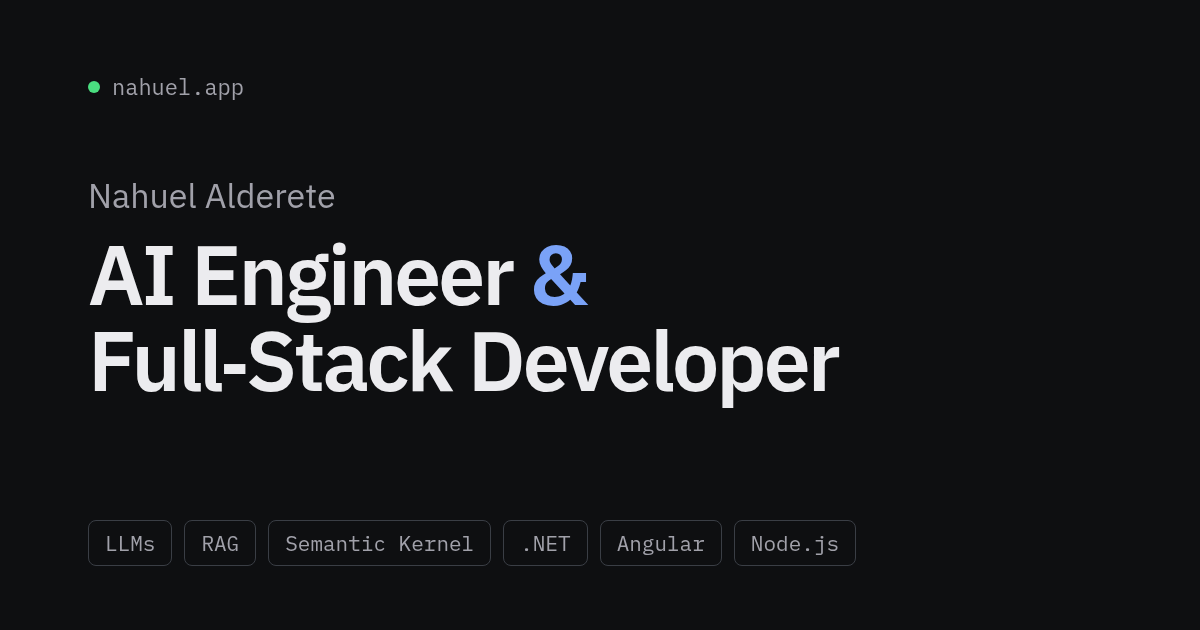
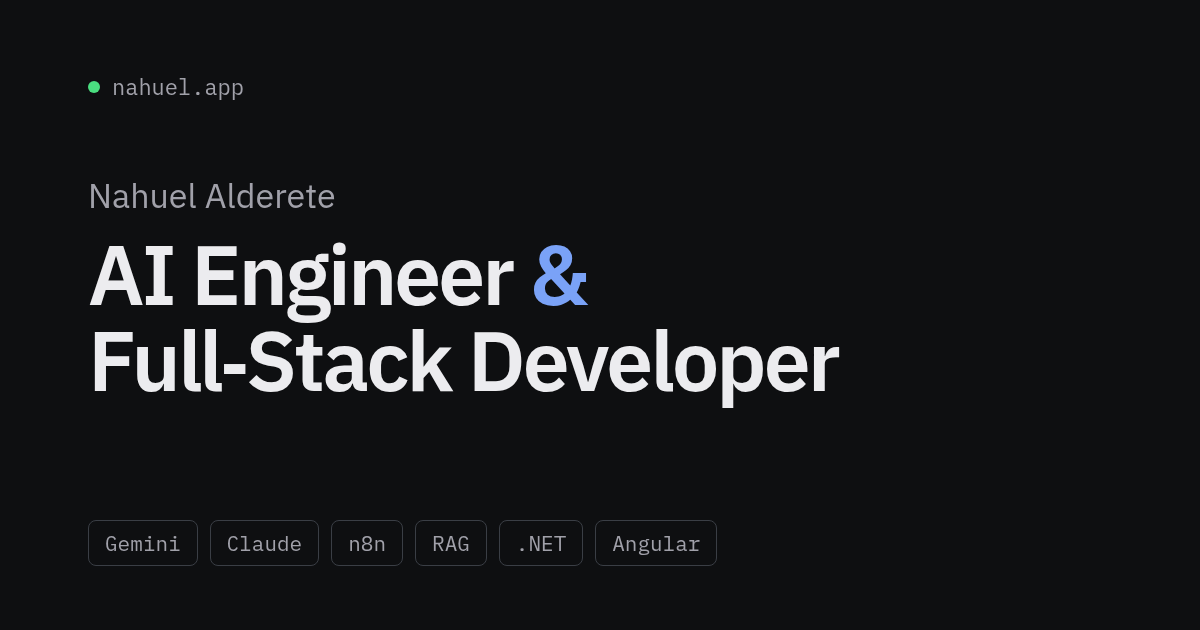
feat: Enhance AI capabilities and automation in the project
- Updated chatbot knowledge base to include Gemini, Claude, n8n, and Spec-Driven Development.
- Added practical applications of AI technologies in the documentation.
- Modified the OG image to reflect new technologies.
- Removed outdated background image.
- Updated LLMs description to specify Gemini and Claude.
- Added new SVG icons for Claude and n8n.
- Integrated Gemini, Claude, and n8n into the tech stack in various components.
- Enhanced the About Me page with a new section on AI and automation practices.
- Improved styling for the AI definitions list.
- Updated localization files to include new AI-related terms and descriptions.
- Adjusted styles for better layout and appearance.

Changed region(s): [[0.0925, 0.8444, 0.5858, 0.8746], [0.6167, 0.8444, 0.7092, 0.8746]]

diff --git a/src/app/pages/about-me/about-me.html b/src/app/pages/about-me/about-me.html
@@ -12,6 +12,28 @@
           <p i18n="@@aboutP3">Esa capa de IA se apoya en una década de desarrollo: frontends en Angular e Ionic / React Native, APIs en .NET y Node.js, y sistemas críticos en banca y salud. Busco que la IA resuelva un problema concreto del negocio, no que quede en una demo.</p>
         </div>
 
+        <section class="ai-practice" aria-labelledby="ai-title">
+          <h3 id="ai-title" class="subhead" i18n="@@aiTitle">IA y automatización en la práctica</h3>
+          <dl class="ai-list">
+            <div class="ai-item">
+              <dt i18n="@@aiGeminiTitle">Integración de LLMs con Gemini</dt>
+              <dd i18n="@@aiGeminiText">Integro LLMs como Gemini en productos reales: asistentes con RAG y tool calling, y flujos que clasifican y analizan información con IA.</dd>
+            </div>
+            <div class="ai-item">
+              <dt i18n="@@aiClaudeTitle">Desarrollo con Claude</dt>
+              <dd i18n="@@aiClaudeText">Trabajo con Claude y Claude Code como asistente de desarrollo, con reglas y contexto por repositorio (CLAUDE.md) y planes de trabajo por tarea.</dd>
+            </div>
+            <div class="ai-item">
+              <dt i18n="@@aiN8nTitle">Automatización con n8n</dt>
+              <dd i18n="@@aiN8nText">Automatizo procesos de negocio con n8n, conectando servicios, datos y modelos de IA para eliminar tareas manuales repetitivas.</dd>
+            </div>
+            <div class="ai-item">
+              <dt i18n="@@aiSddTitle">Spec-Driven Development (OpenSpec)</dt>
+              <dd i18n="@@aiSddText">Redacto y refino especificaciones antes de implementar, para mantener alineados requerimientos, código y revisiones.</dd>
+            </div>
+          </dl>
+        </section>
+
         <section class="tech-stack" aria-labelledby="tech-title">
           <h3 id="tech-title" class="subhead" i18n="@@aboutStackTitle">Stack principal</h3>
           <ul class="tech-icons">

diff --git a/src/app/pages/about-me/about-me.scss b/src/app/pages/about-me/about-me.scss
@@ -50,6 +50,36 @@
   }
 }
 
+/* ── IA y automatización: lista de definiciones en dos columnas ────────────── */
+.ai-list {
+  display: grid;
+  grid-template-columns: repeat(2, minmax(0, 1fr));
+  gap: 0 2rem;
+  margin: 0;
+
+  @media (max-width: 700px) {
+    grid-template-columns: 1fr;
+  }
+
+  .ai-item {
+    padding: 1.125rem 0;
+    border-top: 1px solid var(--color-border);
+  }
+
+  dt {
+    font-weight: 600;
+    color: var(--color-text);
+  }
+
+  dd {
+    margin: 0.375rem 0 0;
+    font-size: 0.9375rem;
+    line-height: 1.6;
+    color: var(--color-text-muted);
+    text-wrap: pretty;
+  }
+}
+
 /* ── Stack: lista simple de logos ──────────────────────────────────────────── */
 .tech-icons {
   @include m.list-reset;

diff --git a/docs/og-image.html b/docs/og-image.html
@@ -66,12 +66,12 @@
   <p class="name">Nahuel Alderete</p>
   <h1>AI Engineer <span class="amp">&amp;</span><br>Full‑Stack Developer</h1>
   <div class="tags">
-    <span class="tag">LLMs</span>
+    <span class="tag">Gemini</span>
+    <span class="tag">Claude</span>
+    <span class="tag">n8n</span>
     <span class="tag">RAG</span>
-    <span class="tag">Semantic Kernel</span>
     <span class="tag">.NET</span>
     <span class="tag">Angular</span>
-    <span class="tag">Node.js</span>
   </div>
 </body>
 </html>

diff --git a/src/app/app.ts b/src/app/app.ts
@@ -152,6 +152,11 @@ export class App implements OnInit, AfterViewInit, OnDestroy {
             'Large Language Models',
             'Retrieval-Augmented Generation',
             'Semantic Kernel',
+            'Google Gemini',
+            'Claude',
+            'n8n',
+            'Spec-Driven Development',
+            'OpenSpec',
             'Conversational AI',
             'Business Process Automation',
             'Angular',

diff --git a/src/styles.scss b/src/styles.scss
@@ -105,6 +105,11 @@ html {
 
   /* Widget de Chatbot Up: por defecto usa 2147483000 y taparía el drawer */
   --cu-z-index: var(--z-chatbot);
+  --cu-content-bg: var(--color-bg);
+  --cu-launcher-bg: var(--mat-sys-primary);
+  --cu-radius-xl: var(--radius-sm);
+  --cu-header-bg: var(--color-surface-2);
+  --cu-panel-height: 75dvh;
 
   /* Layout */
   --header-height: 64px;

diff --git a/src/app/pages/home/home.ts b/src/app/pages/home/home.ts
@@ -11,7 +11,7 @@ import { MatButtonModule } from '@angular/material/button';
 export class Home {
 
   coreSkills = [
-    'LLMs', 'RAG', 'Semantic Kernel', 'Python', '.NET / C#', 'Angular', 'TypeScript', 'Node.js'
+    'LLMs', 'Gemini', 'Claude', 'RAG', 'n8n', 'Semantic Kernel', '.NET / C#', 'Angular', 'TypeScript'
   ];
 
   scrollTo(anchor: string, event?: Event): void {

diff --git a/src/app/pages/about-me/about-me.ts b/src/app/pages/about-me/about-me.ts
@@ -13,6 +13,9 @@ export class AboutMe {
   lang = inject(LOCALE_ID);
 
   technologies = [
+    { name: 'Gemini', file: 'gemini.svg' },
+    { name: 'Claude', file: 'claude.svg' },
+    { name: 'n8n', file: 'n8n.svg' },
     { name: 'Angular', file: 'angular.svg' },
     { name: 'TypeScript', file: 'typescript.svg' },
     { name: 'JavaScript', file: 'javascript.svg' },

diff --git a/docs/chatbot-knowledge-base.md b/docs/chatbot-knowledge-base.md
@@ -47,10 +47,23 @@ demo.
 - **Backend:** Node.js, C# / .NET (.NET Web API, ASP.NET WebForms, ASP.NET MVC4),
   Entity Framework 6
 - **Bases de datos:** SQL Server, ElasticSearch
-- **IA aplicada:** LLMs (Gemini), RAG con pgvector, Semantic Kernel, tool calling,
+- **IA aplicada:** LLMs (Gemini, Claude), RAG con pgvector, Semantic Kernel, tool calling, n8n,
+  Spec-Driven Development (OpenSpec),
   asistentes multicanal (WhatsApp, Telegram, Instagram, web); Python y TensorFlow para
   prototipos
 - **Otros:** APIs REST, Java (puntual), Todo Pago (integración de pagos)
+
+## IA y automatización en la práctica
+
+- **LLMs con Gemini:** integra LLMs en productos reales: asistentes con RAG y tool
+  calling, y flujos que clasifican y analizan información con IA.
+- **Claude:** trabaja con Claude y Claude Code como asistente de desarrollo, con reglas
+  y contexto por repositorio (CLAUDE.md) y planes de trabajo por tarea.
+- **n8n:** automatiza procesos de negocio conectando servicios, datos y modelos de IA
+  para eliminar tareas manuales repetitivas. Tiene el curso n8n Quickstart (2026).
+- **Spec-Driven Development (OpenSpec):** redacta y refina especificaciones antes de
+  implementar, para mantener alineados requerimientos, código y revisiones. Lo aplica
+  en su rol actual en Infocorp Group.
 
 ## Productos propios
 
@@ -191,7 +204,7 @@ Más de 10 años de experiencia profesional como desarrollador, iniciando en Itr
 Es Desarrollador Fullstack en Infocorp Group (desde diciembre de 2025, remoto desde Uruguay), trabajando en la plataforma de banca digital con .NET, Angular y React Native. En paralelo mantiene un trabajo freelance para el sector salud desde 2021.
 
 **¿Con qué tecnologías trabaja principalmente?**
-En IA: LLMs, RAG, Semantic Kernel y Python. Como base full-stack: .NET/C#, Angular, TypeScript, Node.js e Ionic / React Native.
+En IA: LLMs (Gemini, Claude), RAG, Semantic Kernel, n8n y Python. Como base full-stack: .NET/C#, Angular, TypeScript, Node.js e Ionic / React Native.
 
 **¿Tiene experiencia con React o React Native?**
 Sí, usó React Native en Infocorp Group (rol actual y el período 2021–2024).
@@ -201,6 +214,9 @@ Sí, trabajó como administrador de SQL Server en Itrio S.A. (Prisma Medios de P
 
 **¿Trabajó con inteligencia artificial?**
 Sí. Es el foco actual de su carrera. Creó Chatbot Up, un SaaS de asistentes con IA basado en RAG (.NET, Semantic Kernel, Gemini, pgvector) que atiende por WhatsApp, Telegram, Instagram y la web. También participó en un MVP en Scoutt Inc. que usaba IA para seleccionar candidatos, y hace prototipos con Python y TensorFlow.
+
+**¿Usa n8n, Claude o metodologías como SDD?**
+Sí: automatiza con n8n, usa Gemini en producción, trabaja con Claude / Claude Code y desarrolla con Spec-Driven Development usando OpenSpec.
 
 **¿Puede sumar IA o automatizar procesos en mi negocio?**
 Ese es el tipo de proyecto que busca: asistentes con IA, integraciones con LLMs y automatizaciones. Para evaluar un caso concreto, derivá el contacto a email o LinkedIn.
